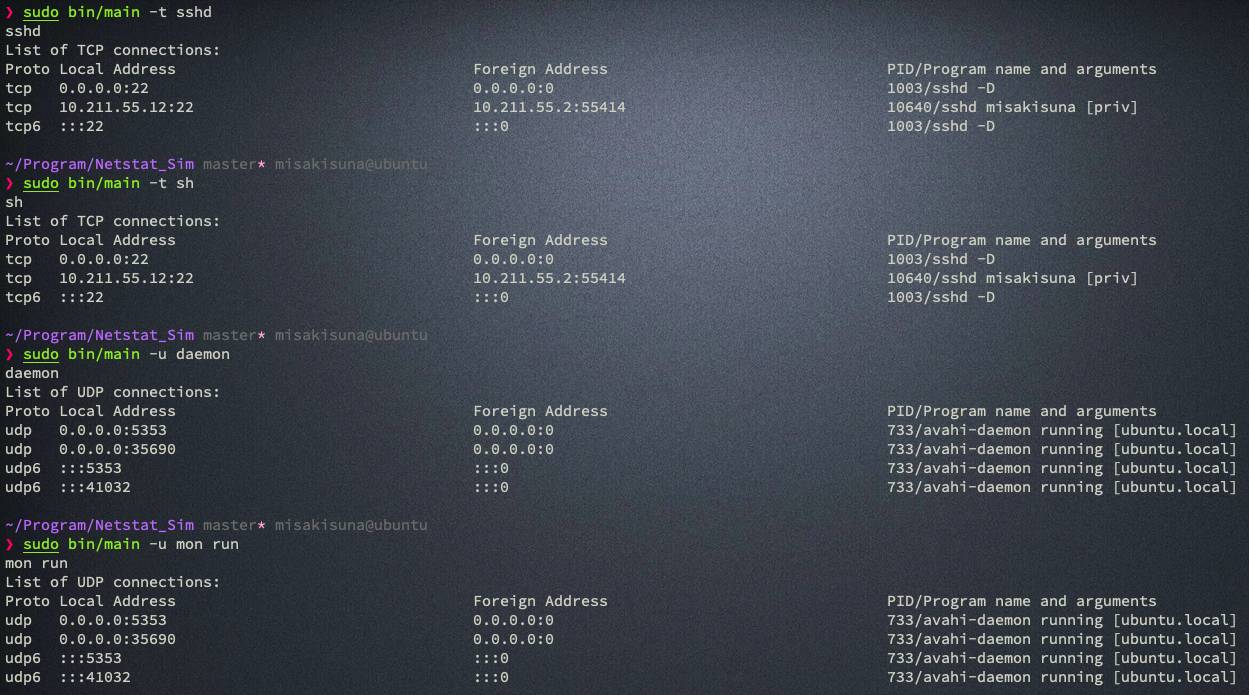
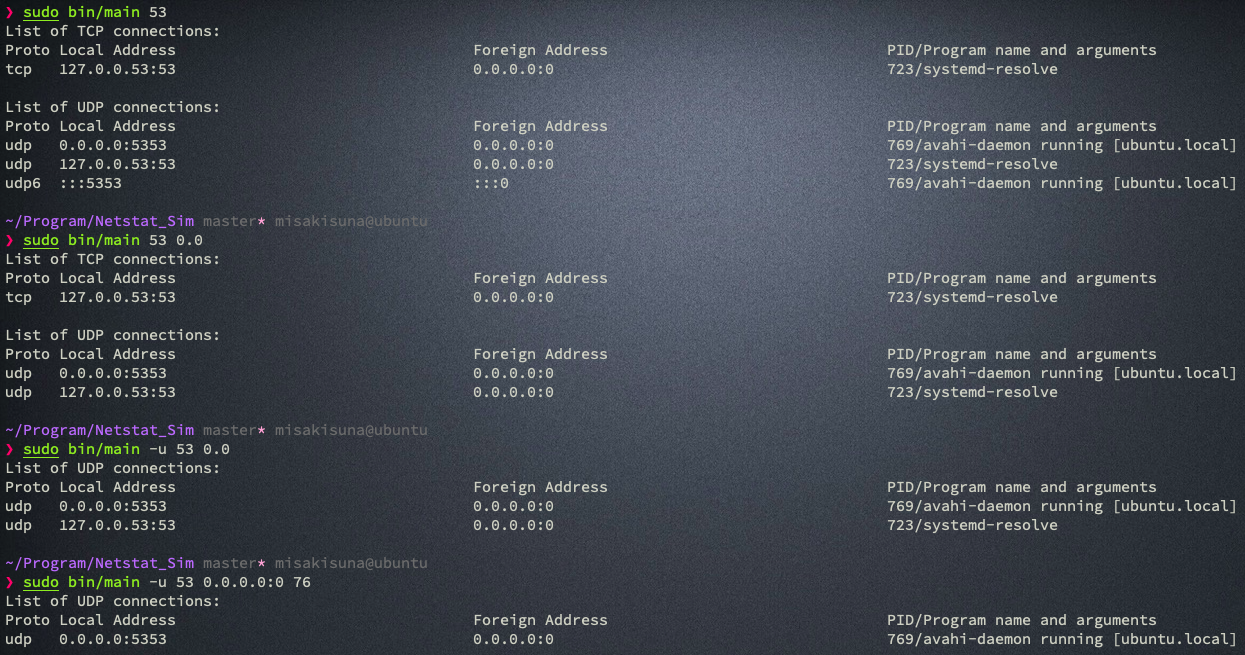
commit

diff --git a/src/info.c b/src/info.c
@@ -48,37 +48,26 @@ void parse_info(FILE * fd, char proto[], int version, const char filter[]) {
 }
 
 void parse_filter(const char proto[], const int version, Ip_Info * ip_info, Process_Info * process_info, const char filter[]) {
+    char info[SIZE];
+    char local_addr[SIZE], foreign_addr[SIZE];
     regex_t regex;
     regmatch_t match[1];
 
+    sprintf(local_addr, "%s:%d", ip_info->local_ip, ip_info->local_port);
+    sprintf(foreign_addr, "%s:%d", ip_info->foreign_ip, ip_info->foreign_port);
+    sprintf(info, "%s%-2c %-45s %-45s %d/%s", proto, version, local_addr, foreign_addr, process_info->pid, process_info->pname);
+
     switch (filter[0]) {
         case 0:
-            print_info(proto, version, ip_info, process_info);
+            printf("%s\n", info);
             break;
 
         default:
             regcomp(&regex, filter, REG_EXTENDED);
 
-            if (!regexec(&regex, process_info->pname, 1, match, 0)) {
-                print_info(proto, version, ip_info, process_info);
+            if (!regexec(&regex, info, 1, match, 0)) {
+                printf("%s\n", info);
             }
-            break;
-    }
-}
-
-void print_info(const char proto[], const int version, Ip_Info * ip_info, Process_Info * process_info) {
-    char local_addr[SIZE], foreign_addr[SIZE];
-
-    sprintf(local_addr, "%s:%d", ip_info->local_ip, ip_info->local_port);
-    sprintf(foreign_addr, "%s:%d", ip_info->foreign_ip, ip_info->foreign_port);
-
-    switch (process_info->pid) {
-        case '-':
-            printf("%s%-2c %-45s %-45s %c/%s\n", proto, version, local_addr, foreign_addr, process_info->pid, process_info->pname);
-            break;
-
-        default:
-            printf("%s%-2c %-45s %-45s %d/%s\n", proto, version, local_addr, foreign_addr, process_info->pid, process_info->pname);
             break;
     }
 }

diff --git a/src/main.c b/src/main.c
@@ -70,7 +70,7 @@ void parse_arg(const int * argc, char * argv[], char filter[]) {
             strcpy(filter, argv[0]);
 
             for (int i = 1; i <= *argc - 1; i++) {
-                strcat(filter, " ");
+                strcat(filter, "[ ]+");
                 strcat(filter, argv[i]);
             }
             break;
